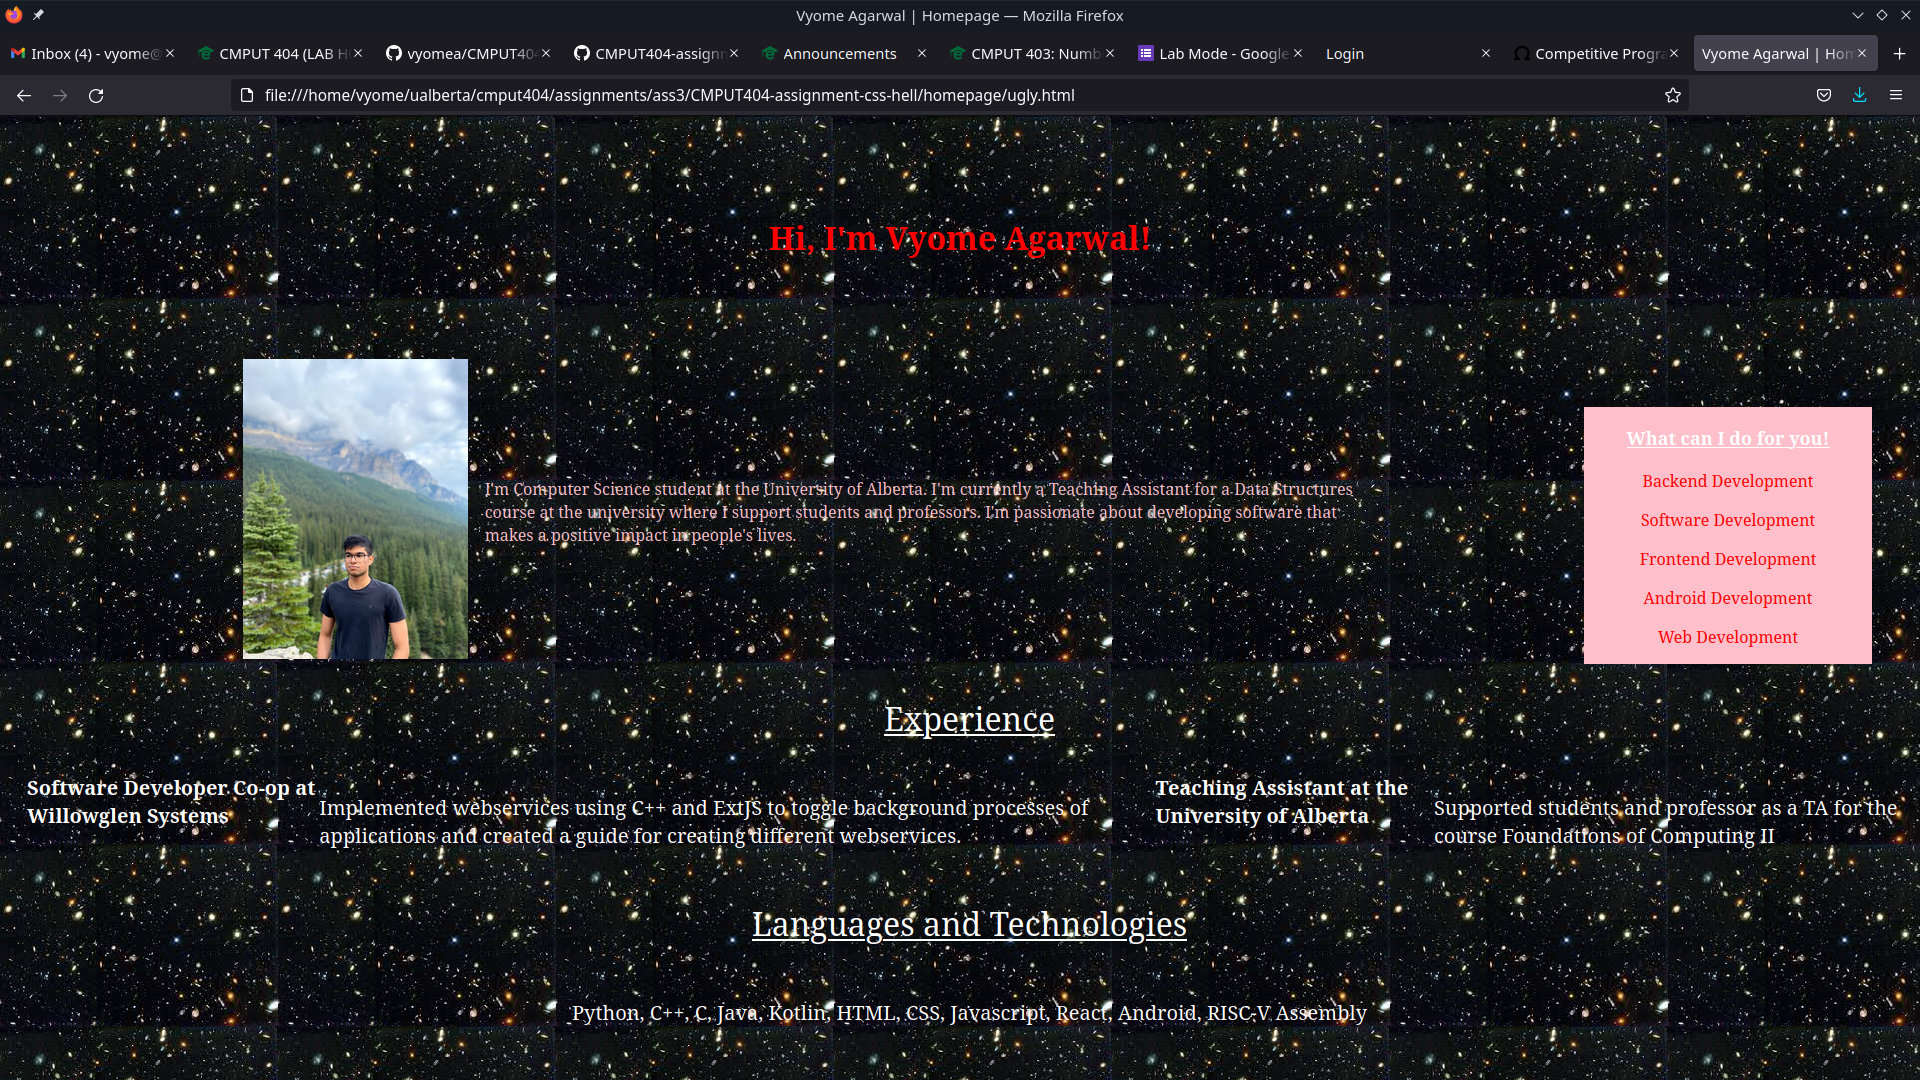
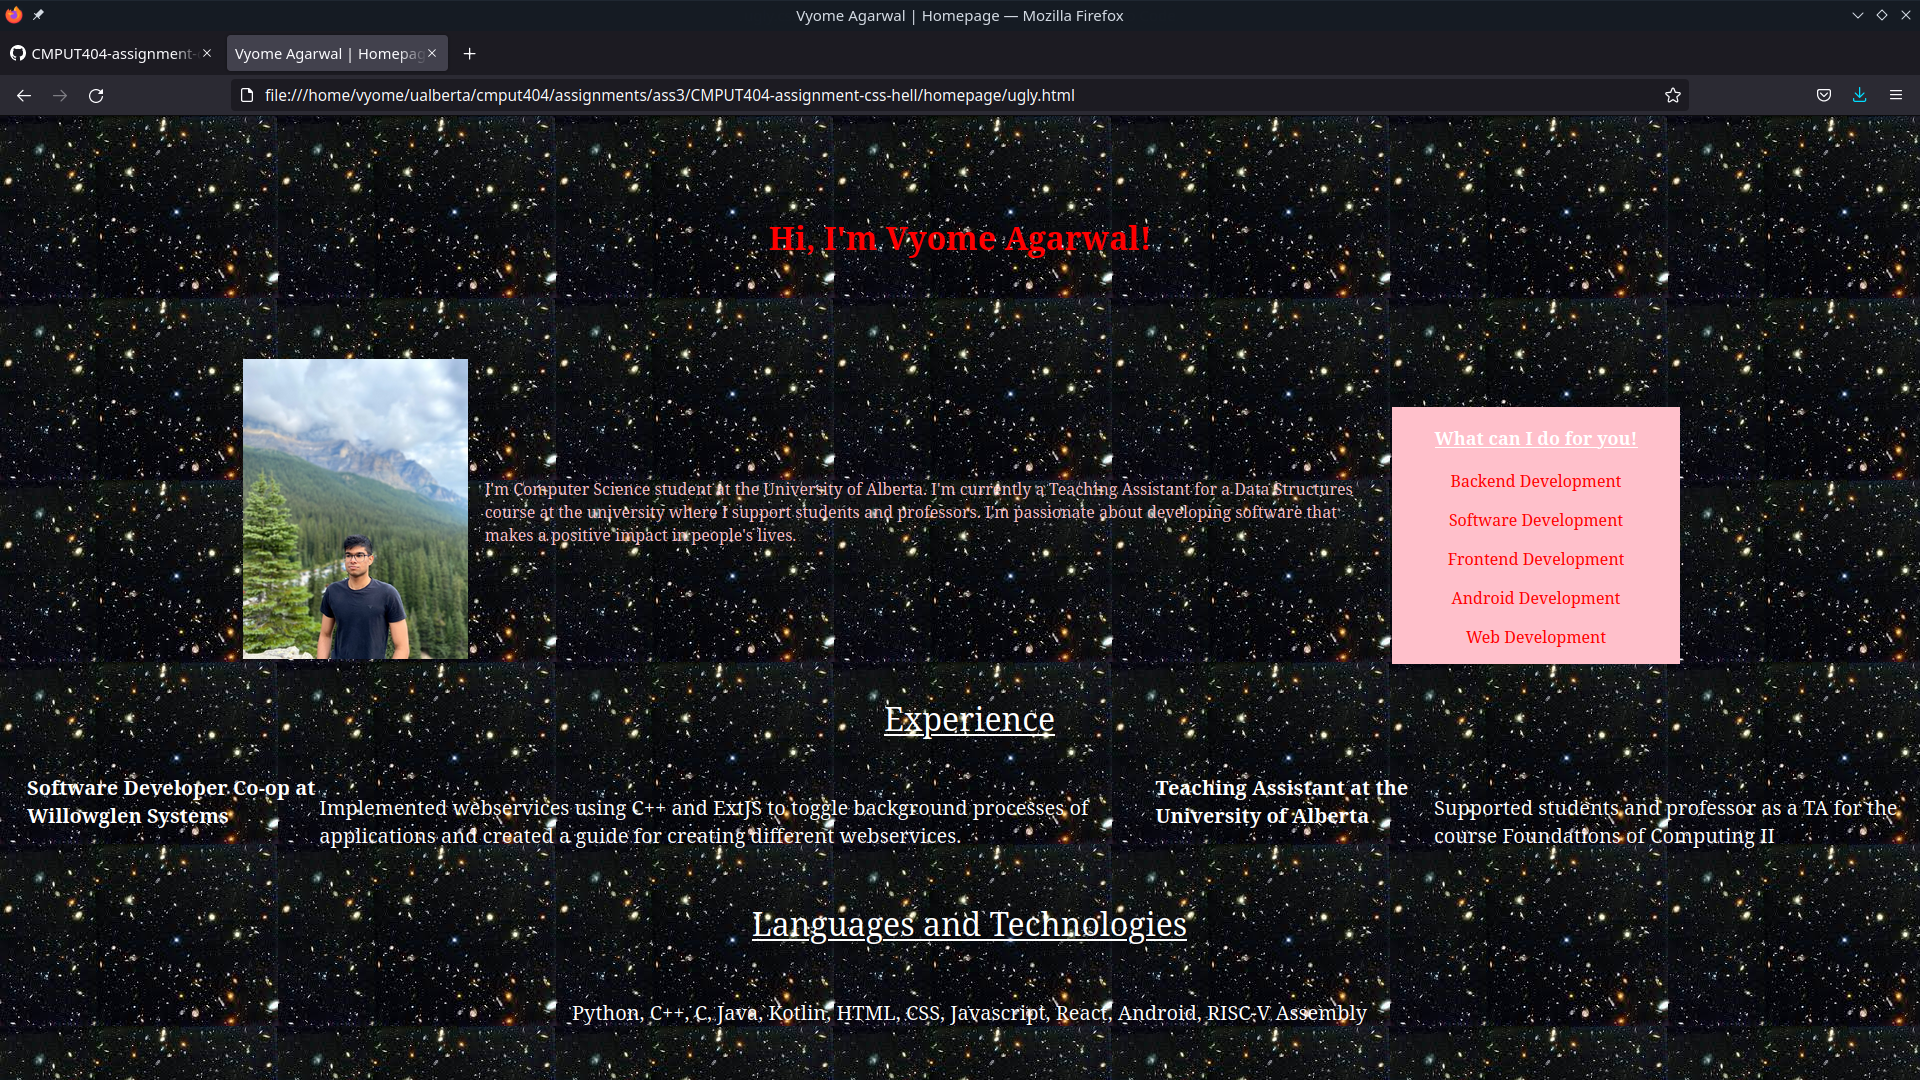
updated ugly.css

diff --git a/homepage/ugly.css b/homepage/ugly.css
@@ -14,7 +14,7 @@ h1 {
 
 .sidebar {
   position: absolute;
-  right: 0;
+  right: 10%;
   width: 15%;
   background-color: pink;
   text-align: center;
